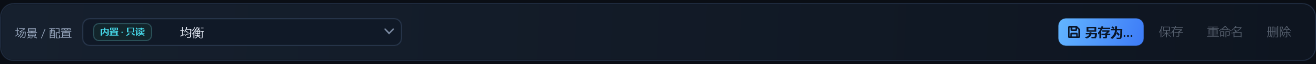
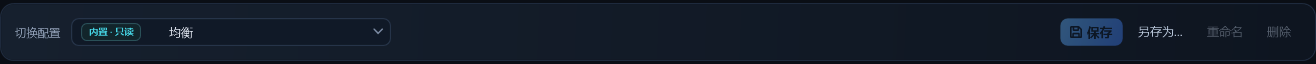
Simplify main window chrome and status bar
- Remove in-page header (title/subtitle/admin chip); title bar already carries context
- Rename scene bar label to 切换配置; order actions 保存, 另存为…, 重命名, 删除 with 保存 as primary
- Rename internal events so SaveProfileRequested = write back, SaveAsProfileRequested = new profile
- Remove 备注（括号内） column; CustomName kept only for config compatibility
- Status bar: drop per-channel NVIDIA/engine line and polling/watchdog hint; show stable 正在控制 N 个通道 / 所有通道由 BIOS 控制, action feedback holds ~5s
- Refresh docs copy table, feedback log and offscreen screenshots

diff --git a/src/Atlas.App/MainWindow.xaml b/src/Atlas.App/MainWindow.xaml
@@ -32,28 +32,12 @@
                     <RowDefinition Height="Auto"/>
                     <RowDefinition Height="Auto"/>
                     <RowDefinition Height="Auto"/>
-                    <RowDefinition Height="Auto"/>
                     <RowDefinition Height="*"/>
                     <RowDefinition Height="Auto"/>
                 </Grid.RowDefinitions>
 
-                <!-- ===== 页面头部 ===== -->
-                <Grid Grid.Row="0" Margin="2,0,2,16">
-                    <StackPanel>
-                        <TextBlock Style="{StaticResource PageTitle}" Text="风扇控制台"/>
-                        <TextBlock Style="{StaticResource PageSubtitle}" Margin="0,4,0,0"
-                                   Text="实时温度 · 曲线调速 · 传感器监控　（灯效交由 Armoury Crate 负责）"/>
-                    </StackPanel>
-                    <Border Style="{StaticResource ChipBorder}" HorizontalAlignment="Right" VerticalAlignment="Center">
-                        <StackPanel Orientation="Horizontal">
-                            <Ellipse Width="6" Height="6" Fill="{StaticResource GreenBrush}" VerticalAlignment="Center"/>
-                            <TextBlock Style="{StaticResource ChipText}" Text="本地运行 · 管理员权限" Margin="7,0,0,0"/>
-                        </StackPanel>
-                    </Border>
-                </Grid>
-
                 <!-- ===== 传感器卡片：主指标 = 普通用户关心的部件温度；工程师指标放副标题 ===== -->
-                <Grid Grid.Row="1">
+                <Grid Grid.Row="0">
                     <Grid.ColumnDefinitions>
                         <ColumnDefinition Width="*"/>
                         <ColumnDefinition Width="*"/>
@@ -154,7 +138,7 @@
                 </Grid>
 
                 <!-- ===== 提示条 ===== -->
-                <Border Grid.Row="2" Background="{StaticResource AmberSoftBrush}"
+                <Border Grid.Row="1" Background="{StaticResource AmberSoftBrush}"
                         BorderBrush="#4A3D22" BorderThickness="1" CornerRadius="10"
                         Padding="12,9" Margin="0,14,0,0">
                     <DockPanel>
@@ -168,10 +152,10 @@
                 </Border>
 
                 <!-- ===== 场景模板 / 我的配置 / 当前方案 ===== -->
-                <controls:SceneBar x:Name="SceneBarControl" Grid.Row="3" Margin="0,12,0,0"/>
+                <controls:SceneBar x:Name="SceneBarControl" Grid.Row="2" Margin="0,12,0,0"/>
 
                 <!-- ===== 风扇通道表格 ===== -->
-                <Border Grid.Row="4" Style="{StaticResource CardBorder}" Padding="0" Margin="0,14,0,0">
+                <Border Grid.Row="3" Style="{StaticResource CardBorder}" Padding="0" Margin="0,14,0,0">
                     <Grid>
                         <Grid.RowDefinitions>
                             <RowDefinition Height="Auto"/>
@@ -263,9 +247,6 @@
                                             </DataTemplate>
                                         </DataGridTemplateColumn.CellTemplate>
                                     </DataGridTemplateColumn>
-
-                                    <DataGridTextColumn Header="备注（括号内）" Width="132"
-                                                        Binding="{Binding CustomName, Mode=TwoWay, UpdateSourceTrigger=LostFocus}"/>
 
                                     <DataGridTemplateColumn Header="转速" Width="106" IsReadOnly="True">
                                         <DataGridTemplateColumn.CellTemplate>
@@ -404,16 +385,13 @@
                 </Border>
 
                 <!-- ===== 状态栏 ===== -->
-                <Grid Grid.Row="5" Margin="2,12,2,0">
+                <Grid Grid.Row="4" Margin="2,12,2,0">
                     <StackPanel Orientation="Horizontal">
                         <Ellipse x:Name="StatusDot" Width="7" Height="7" Fill="{StaticResource GreenBrush}"
                                  VerticalAlignment="Center" Margin="0,0,8,0"/>
                         <TextBlock x:Name="StatusText" Text="就绪" Foreground="{StaticResource MutedBrush}"
                                    FontSize="11.5" VerticalAlignment="Center"/>
                     </StackPanel>
-                    <TextBlock HorizontalAlignment="Right" VerticalAlignment="Center"
-                               FontSize="11" Foreground="{StaticResource DimBrush}"
-                               Text="轮询 1.0 s · 看门狗 8 s · 配置自动保存"/>
                 </Grid>
             </Grid>
         </Grid>

diff --git a/src/Atlas.App/Controls/SceneBar.xaml b/src/Atlas.App/Controls/SceneBar.xaml
@@ -20,9 +20,9 @@
             </Grid.ColumnDefinitions>
 
             <!-- ===== 标题 ===== -->
-            <TextBlock Grid.Column="0" Text="场景 / 配置" FontSize="11.5"
+            <TextBlock Grid.Column="0" Text="切换配置" FontSize="11.5"
                        Foreground="{StaticResource MutedBrush}" VerticalAlignment="Center"
-                       ToolTip="内置场景（只读）：一键把所有未锁定通道切换为温度曲线并套用同名曲线模板。&#10;「我的配置」：你自己命名并保存的整套设置，可更新、重命名、删除。"/>
+                       ToolTip="内置场景（只读）：把所有未锁定通道切换为温度曲线并套用同名曲线模板。&#10;「我的配置」：你自己命名并保存的整套设置，可保存、另存为、重命名、删除。"/>
 
             <!-- ===== 单一下拉：选中即切换 ===== -->
             <ComboBox x:Name="ChoiceCombo" Grid.Column="1" Width="320" Margin="10,0,0,0"
@@ -101,19 +101,19 @@
                 <Button x:Name="SaveProfileButton" Style="{StaticResource PrimaryButton}"
                         Padding="11,5" Margin="0,0,4,0" Click="SaveProfileButton_Click"
                         ToolTipService.ShowOnDisabled="True"
-                        ToolTip="把当前所有通道的设置另存为一个新的「我的配置」，内置场景不受影响。">
+                        ToolTip="把当前修改保存到所选「我的配置」（内置场景不可保存）。">
                     <StackPanel Orientation="Horizontal">
                         <Path Data="{StaticResource IconSave}" Style="{StaticResource IconPath}"
                               Stroke="{StaticResource AccentTextBrush}" Width="12" Height="12"
                               Margin="0,0,5,0" VerticalAlignment="Center"/>
-                        <TextBlock Text="另存为…" VerticalAlignment="Center"/>
+                        <TextBlock Text="保存" VerticalAlignment="Center"/>
                     </StackPanel>
                 </Button>
 
-                <Button x:Name="UpdateProfileButton" Content="保存" Style="{StaticResource ToolbarButton}"
-                        Padding="10,5" Margin="0,0,4,0" Click="UpdateProfileButton_Click"
+                <Button x:Name="SaveAsProfileButton" Content="另存为…" Style="{StaticResource ToolbarButton}"
+                        Padding="10,5" Margin="0,0,4,0" Click="SaveAsProfileButton_Click"
                         ToolTipService.ShowOnDisabled="True"
-                        ToolTip="把当前修改保存到所选「我的配置」（内置场景不可保存）。"/>
+                        ToolTip="把当前所有通道的设置另存为一个新的「我的配置」，内置场景不受影响。"/>
                 <Button x:Name="RenameProfileButton" Content="重命名" Style="{StaticResource ToolbarButton}"
                         Padding="10,5" Margin="0,0,4,0" Click="RenameProfileButton_Click"
                         ToolTipService.ShowOnDisabled="True"

diff --git a/src/Atlas.App/MainWindow.xaml.cs b/src/Atlas.App/MainWindow.xaml.cs
@@ -47,6 +47,10 @@ public partial class MainWindow : Window
     // Atlas 自身在应用场景/配置、恢复 BIOS 默认时也会改通道设置，必须绕过只读闸门
     private bool _suppressPresetEditGuard;
 
+    // 底部状态栏：操作反馈优先显示几秒，空闲时只显示稳定的接管状态
+    private DateTime _statusHoldUntil;
+    private bool _updatingDefaultStatus;
+
     public MainWindow()
     {
         InitializeComponent();
@@ -81,9 +85,19 @@ public partial class MainWindow : Window
         // SceneBar 只负责展示，所有业务动作都回到这里处理
         SceneBarControl.ChoiceSelected += OnSceneBarChoiceSelected;
         SceneBarControl.SaveProfileRequested += OnSaveProfileRequested;
-        SceneBarControl.UpdateProfileRequested += OnUpdateProfileRequested;
+        SceneBarControl.SaveAsProfileRequested += OnSaveAsProfileRequested;
         SceneBarControl.RenameProfileRequested += OnRenameProfileRequested;
         SceneBarControl.DeleteProfileRequested += OnDeleteProfileRequested;
+
+        // 任何地方写的操作反馈都在状态栏停留几秒，之后回到稳定的接管状态
+        // （TextBlock 没有 TextChanged 事件，用依赖属性描述符监听 Text 变化）
+        DependencyPropertyDescriptor
+            .FromProperty(TextBlock.TextProperty, typeof(TextBlock))
+            .AddValueChanged(StatusText, (_, _) =>
+            {
+                if (!_updatingDefaultStatus)
+                    _statusHoldUntil = DateTime.UtcNow.AddSeconds(5);
+            });
 
         AppDomain.CurrentDomain.UnhandledException += (_, args) =>
         {
@@ -247,9 +261,22 @@ public partial class MainWindow : Window
 
             var controlling = _engine.ActiveChannels > 0;
             StatusDot.Fill = controlling ? GreenBrush : MutedBrush;
-            StatusText.Text = !controlling
-                ? $"{_engine.LastStatus}（所有通道由 BIOS 控制）"
-                : $"{_engine.LastStatus} · 正在控制 {_engine.ActiveChannels} 个通道";
+
+            // 空闲时不显示“最后写了哪个通道 → 多少%”这类秒级噪音，只保留稳定摘要
+            if (DateTime.UtcNow >= _statusHoldUntil)
+            {
+                _updatingDefaultStatus = true;
+                try
+                {
+                    StatusText.Text = controlling
+                        ? $"正在控制 {_engine.ActiveChannels} 个通道"
+                        : "所有通道由 BIOS 控制";
+                }
+                finally
+                {
+                    _updatingDefaultStatus = false;
+                }
+            }
         }
         catch (Exception ex)
         {
@@ -977,7 +1004,7 @@ public partial class MainWindow : Window
         return false;
     }
 
-    private void OnSaveProfileRequested(object? sender, EventArgs e)
+    private void OnSaveAsProfileRequested(object? sender, EventArgs e)
     {
         if (!_initialized) return;
 
@@ -1012,7 +1039,7 @@ public partial class MainWindow : Window
         }
     }
 
-    private void OnUpdateProfileRequested(object? sender, EventArgs e)
+    private void OnSaveProfileRequested(object? sender, EventArgs e)
     {
         if (!_initialized) return;
 

diff --git a/src/Atlas.App/Controls/SceneBar.xaml.cs b/src/Atlas.App/Controls/SceneBar.xaml.cs
@@ -79,8 +79,12 @@ public partial class SceneBar : UserControl
     /// <summary>用户在下拉列表里选择了某一项（已过滤程序化选择），参数是 <see cref="SceneBarChoiceItem.Id"/>。</summary>
     public event EventHandler<string>? ChoiceSelected;
 
+    /// <summary>把当前修改保存到选中的「我的配置」（写回，不新建）。</summary>
     public event EventHandler? SaveProfileRequested;
-    public event EventHandler? UpdateProfileRequested;
+
+    /// <summary>把当前设置另存为一个新的「我的配置」。</summary>
+    public event EventHandler? SaveAsProfileRequested;
+
     public event EventHandler? RenameProfileRequested;
     public event EventHandler? DeleteProfileRequested;
 
@@ -250,10 +254,10 @@ public partial class SceneBar : UserControl
     private void ApplyEnabledState()
     {
         ChoiceCombo.IsEnabled = _interactable;
-        SaveProfileButton.IsEnabled = _interactable;
+        SaveAsProfileButton.IsEnabled = _interactable;
 
         var isProfile = SelectedKind == SceneBarChoiceKind.Profile;
-        UpdateProfileButton.IsEnabled = _interactable && isProfile;
+        SaveProfileButton.IsEnabled = _interactable && isProfile;
         RenameProfileButton.IsEnabled = _interactable && isProfile;
         DeleteProfileButton.IsEnabled = _interactable && isProfile;
     }
@@ -276,14 +280,14 @@ public partial class SceneBar : UserControl
     private void SaveProfileButton_Click(object sender, RoutedEventArgs e)
     {
         if (_suppressEvents) return;
+        if (SelectedKind != SceneBarChoiceKind.Profile) return;
         SaveProfileRequested?.Invoke(this, EventArgs.Empty);
     }
 
-    private void UpdateProfileButton_Click(object sender, RoutedEventArgs e)
+    private void SaveAsProfileButton_Click(object sender, RoutedEventArgs e)
     {
         if (_suppressEvents) return;
-        if (SelectedKind != SceneBarChoiceKind.Profile) return;
-        UpdateProfileRequested?.Invoke(this, EventArgs.Empty);
+        SaveAsProfileRequested?.Invoke(this, EventArgs.Empty);
     }
 
     private void RenameProfileButton_Click(object sender, RoutedEventArgs e)

diff --git a/src/Atlas.App/FanRow.cs b/src/Atlas.App/FanRow.cs
@@ -39,11 +39,10 @@ public sealed class FanRow : INotifyPropertyChanged
         _selectedSource = sources.FirstOrDefault(s => s.Id == config.SourceId);
     }
 
-    public string Name => string.IsNullOrWhiteSpace(_config.CustomName)
-        ? _fan.DisplayName
-        : $"{_fan.DisplayName} ({_config.CustomName})";
+    /// <summary>表格里显示的通道名；备注名已从 UI 移除，仅保留硬件通道名。</summary>
+    public string Name => _fan.DisplayName;
 
-    /// <summary>括号里的备注名；编号（Fan #1 等）始终保留。</summary>
+    /// <summary>历史备注名（v0.2 配置兼容）；UI 不再展示/编辑，但保留字段避免丢旧配置。</summary>
     public string CustomName
     {
         get => _config.CustomName;
@@ -53,7 +52,6 @@ public sealed class FanRow : INotifyPropertyChanged
             if (_config.CustomName == trimmed) return;
             _config.CustomName = trimmed;
             OnPropertyChanged();
-            OnPropertyChanged(nameof(Name));
         }
     }
 

diff --git a/docs/fan-profiles-design.md b/docs/fan-profiles-design.md
@@ -84,7 +84,7 @@ v0.2 已有：
 
 > 内置场景「静音」是只读的，不能直接修改。是否复制为「我的配置」后继续编辑？
 
-选「是」会以当前场景值为内容创建一个新的「我的配置」（默认名「静音 · 我的」），切换过去后即可正常编辑；选「否」则本次操作不生效。这样用户永远不会处于「改着改着把预设改了」的状态，也不会出现「已修改的内置场景」这种不存在的概念。备注名和「锁定」是通道身份/安全属性，不拦截，随时可改。
+选「是」会以当前场景值为内容创建一个新的「我的配置」（默认名「静音 · 我的」），切换过去后即可正常编辑；选「否」则本次操作不生效。这样用户永远不会处于「改着改着把预设改了」的状态，也不会出现「已修改的内置场景」这种不存在的概念。「锁定」是通道安全属性，不拦截，随时可设置。
 
 ## 4. 数据模型
 
@@ -129,7 +129,7 @@ v0.2 已有：
 
 关键语义：
 
-- **快照只包含「热设置」**：模式、固定 PWM 值、温度源、曲线上下限、曲线点。**不包含** `Protected`（锁定）和 `CustomName`（备注名）——前者是安全属性，后者是通道身份，都不该被场景切换悄悄改掉。
+- **快照只包含「热设置」**：模式、固定 PWM 值、温度源、曲线上下限、曲线点。**不包含** `Protected`（锁定）和 `CustomName`——前者是安全属性，后者是 v0.2 的备注名（UI 已移除编辑入口，仅保留字段兼容旧配置），都不该被场景切换悄悄改掉。
 - **锁定通道不参与应用**：应用场景/配置时跳过 `Protected` 通道，状态栏报告「跳过 N 个锁定通道」。水泵之类先锁定，就不会被一键场景带走。
 - **缺失/新增通道**：配置按 `FanId` 匹配。配置里有、当前机器没有的通道计为「不可用」；当前有、配置里没有的通道保持原样（不重置），状态栏报告数量。部分覆盖时「当前来源」仍标注为该配置（未包含的新通道保持原样）——来源表达的是「最近一次应用的对象」，不是逐通道的精确归属，这是有意的简化。
 - **没有任何通道真正应用时**（全部锁定 / 没有通道 / 配置条目全部失效），不会把「当前来源」标记成该场景或配置，避免状态栏假装成功。
@@ -145,11 +145,11 @@ v0.2 已有：
 
 ```
 ┌──────────────────────────────────────────────────────────────────────────────────────┐
-│ 场景 / 配置  [● 内置·只读 静音 ▾]  [已修改]   [另存为…]  [保存] [重命名] [删除]        │
+│ 切换配置  [● 内置·只读 静音 ▾]  [已修改]   [保存]  [另存为…] [重命名] [删除]        │
 └──────────────────────────────────────────────────────────────────────────────────────┘
 ```
 
-- **只保留一个下拉框**：内置场景项带「内置 · 只读」类型徽标，我的配置项带「我的」徽标和更新时间；当前没有来源时显示「未归档」占位项。**选中即切换**，没有单独的「应用」按钮，也没有重复的「当前方案」状态文字。
+- **只保留一个下拉框**：标签为「切换配置」，内置场景项带「内置 · 只读」类型徽标，我的配置项带「我的」徽标和更新时间；当前没有来源时显示「未归档」占位项。**选中即切换**，没有单独的「应用」按钮，也没有重复的「当前方案」状态文字。
 - 只有当前「我的配置」有未保存修改时，才在下拉框旁显示一个小号琥珀色「已修改」徽标（tooltip 提示可点「保存」写回）；内置场景不可编辑，永远不会出现「已修改的内置场景」。
 - 「另存为…」：把当前设置另存为一个新的「我的配置」；对内置场景来说就是「复制成可编辑配置」。
 - 「保存 / 重命名 / 删除」：只对选中的「我的配置」可用；内置场景项与未归档占位项禁用。「保存」把当前修改写回该配置（不新建）。
@@ -194,7 +194,7 @@ v0.2 已有：
 - **场景不是 BIOS 默认**：场景仍是 Atlas 软件控制；「全部恢复 BIOS 默认」保持独立按钮（把手交还 BIOS、界面显示未接管）。两者语义不同，不混在一起。
 - **切换前确认**：当前「我的配置」有未保存修改、或未归档草稿被手工改过时，切换场景/配置前确认，避免丢改动；内置场景本身只读，不存在「切换丢失预设修改」。
 - **没有可接管通道时**：全部通道被锁定、或配置里没有任何可用通道时，选择场景/配置会回退下拉并明确提示「未应用」，不会出现「已应用 0 个通道」这种假成功。
-- **预设编辑拦截**：内置场景生效时，模式/温度源/固定 PWM/曲线编辑/复制曲线都会被拦截并引导先复制为「我的配置」；备注名与锁定不拦截（锁定本身是安全属性，允许随时设置）。锁定通道的热设置同样不修改，保证内置场景期间不会出现「预设 + 已修改」。
+- **预设编辑拦截**：内置场景生效时，模式/温度源/固定 PWM/曲线编辑/复制曲线都会被拦截并引导先复制为「我的配置」；「锁定」不拦截（安全属性，允许随时设置）。锁定通道的热设置同样不修改，保证内置场景期间不会出现「预设 + 已修改」。
 - **落盘时机（有意取舍）**：按用户反馈移除了独立的「保存修改」按钮；配置在切换场景/配置、保存配置/另存为、恢复 BIOS 默认、退出应用时写盘。极端崩溃可能丢失最后一段尚未归档的修改，这是简化 UI 的代价，后续可用「变更后防抖自动保存」补齐。
 - **恢复 BIOS 默认后**：清空当前来源，并把当时的热设置记为基线（显示为「自定义方案（未归档）」，而不是「已修改」）。
 - **删除当前配置后**：当前设置保持不动，来源清空、基线同步为当前值（干净未归档）。
@@ -246,7 +246,7 @@ dotnet run --project src/Atlas.Cli -- preset-selftest
 
 | 位置 | 文案 |
 | --- | --- |
-| 栏标签 | 场景 / 配置 |
+| 栏标签 | 切换配置 |
 | 下拉 tooltip | 内置场景只读；选择即切换。要修改请先复制为「我的配置」。 |
 | 内置场景类型徽标 | 内置 · 只读 |
 | 我的配置类型徽标 | 我的 |
@@ -267,6 +267,8 @@ dotnet run --project src/Atlas.Cli -- preset-selftest
 | 曲线摘要（匹配） | 当前曲线：与「静音」模板一致 |
 | 曲线摘要（自定义） | 当前曲线：自定义（未套用模板） |
 | 表格曲线列 | 模板 · 静音 / 自定义曲线 |
+| 底部状态栏（空闲） | 正在控制 N 个通道 / 所有通道由 BIOS 控制 |
+| 底部状态栏（操作后） | 操作反馈显示约 5 秒，然后回到空闲摘要 |
 | 底部操作反馈 | 已应用 N 个通道（内置场景「静音」）/ 已复制为「静音 · 我的」/ 已另存为「夜间安静」/ 已保存配置「夜间安静」 |
 
 ## 11. 一句话回答你的三个疑虑
@@ -304,6 +306,11 @@ dotnet run --project src/Atlas.Cli -- preset-selftest
 | 预设应放进同一个下拉，用类型区分、不可修改 | 场景按钮与配置下拉分成两个控件，用户要理解两套入口 | 统一下拉：内置场景带「内置 · 只读」徽标，我的配置带「我的」徽标；一个列表切换 |
 | 选中预设后编辑应直接拦截，并提示先复制再改 | 允许在内置场景基础上改出「已修改」，概念上像改了预设 | 模式/温度源/固定 PWM/曲线编辑/复制曲线全部拦截，提示复制为「我的配置」后再编辑 |
 | 表格「保存修改」多余 | 与「另存为…」职责重叠 | 删除该按钮；保存统一由「另存为…」/「保存」承担 |
+| 备注（括号内）列价值低且占第 2 列 | 无实际作用，挤压通道名与转速信息 | 删除该列；CustomName 字段保留仅兼容旧配置 |
+| 页面头部「实时温度 · 曲线调速 · 传感器监控」提示多余 | README 已有介绍，界面重复 | 删除整个页面头部（标题/副标题/「本地运行 · 管理员权限」chip），内容靠标题栏与卡片表达 |
+| 栏标签「场景 / 配置」不够直白 | 用户需要理解两个概念 | 改为「切换配置」，一个下拉即切换 |
+| 按钮顺序与主次 | 另存为在前、保存在后，与使用频率不符 | 顺序改为 保存、另存为…、重命名、删除；保存为主按钮 |
+| 底部状态栏固定显示 NVIDIA 通道与轮询参数 | 秒级噪音、技术细节对用户无价值 | 空闲只显示「正在控制 N 个通道 / 所有通道由 BIOS 控制」，操作反馈停留约 5 秒；删除右侧轮询/看门狗提示 |
 
 v2 的规矩仍然只有一句：**只读的永远是预设，能编辑的只有「我的配置」，想改预设就先复制。**
 
